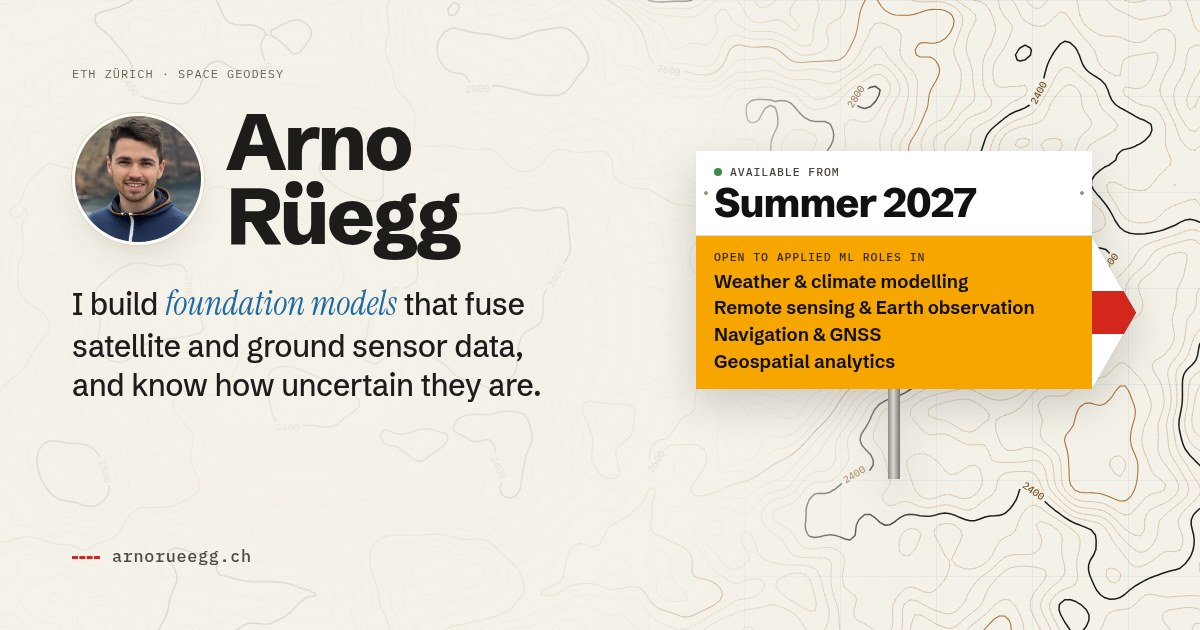
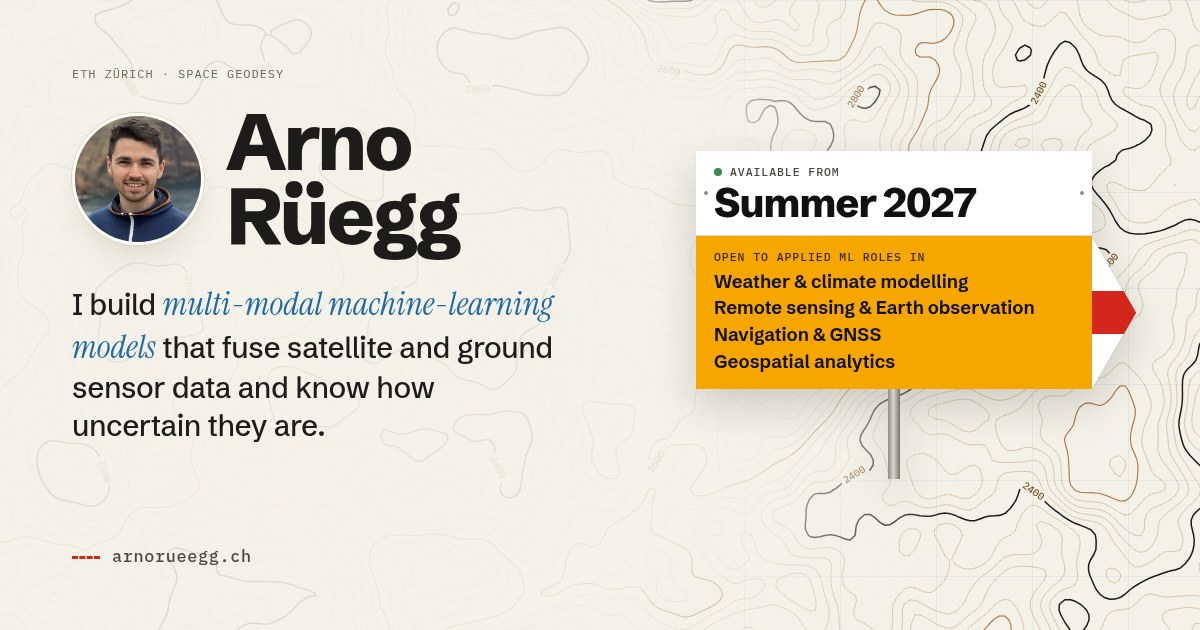
Replace "foundation models" in the header pitch
Header, page description and link-preview card now say multi-modal
machine-learning models that fuse satellite and ground sensor data.

Changed region(s): [[0.0617, 0.4524, 0.4625, 0.573], [0.0617, 0.6032, 0.4625, 0.6333], [0.0617, 0.6635, 0.2775, 0.6937]]

diff --git a/index.html b/index.html
@@ -4,7 +4,7 @@
   <meta charset="UTF-8">
   <meta name="viewport" content="width=device-width, initial-scale=1" />
   <title>Arno Rüegg</title>
-  <meta name="description" content="Arno Rüegg is a PhD researcher in space geodesy at ETH Zürich, building multi-modal foundation models and machine-learning models with uncertainty for satellite and ground sensor data: GNSS, VLBI and the ionosphere." />
+  <meta name="description" content="Arno Rüegg is a PhD researcher in space geodesy at ETH Zürich, building multi-modal machine-learning models with uncertainty that fuse satellite and ground sensor data: GNSS, VLBI and the ionosphere." />
   <link rel="canonical" href="https://www.arnorueegg.ch/" />
   <meta name="color-scheme" content="light dark" />
   <link rel="preload" href="assets/fonts/schibsted-grotesk-latin.woff2" as="font" type="font/woff2" crossorigin>
@@ -48,8 +48,8 @@
   </script>
 
   <meta property="og:site_name" content="Arno Rüegg" />
-  <meta property="og:title" content="Arno Rüegg – Foundation models for Earth and space data · PhD ETH Zürich" />
-  <meta property="og:description" content="Multi-modal foundation models and machine-learning models with uncertainty for satellite and ground sensor data: GNSS, VLBI and the ionosphere." />
+  <meta property="og:title" content="Arno Rüegg – Multi-modal machine learning for Earth and space data · PhD ETH Zürich" />
+  <meta property="og:description" content="Multi-modal machine-learning models with uncertainty that fuse satellite and ground sensor data: GNSS, VLBI and the ionosphere." />
   <meta property="og:url" content="https://www.arnorueegg.ch/" />
   <meta property="og:type" content="website" />
   <meta property="og:image" content="https://www.arnorueegg.ch/assets/og-card.jpg" />
@@ -82,8 +82,8 @@
       </div>
 
       <p class="positioning">
-        I build <em>foundation models</em> that fuse satellite and ground
-        sensor data, and know how uncertain they are.
+        I build <em>multi-modal machine-learning models</em> that fuse satellite
+        and ground sensor data and know how uncertain they are.
       </p>
       <p class="positioning-detail">
         PhD researcher in space geodesy at ETH Zürich, finishing in 2027
@@ -445,7 +445,7 @@
                 <span class="route-bar" style="--from: 2024.42; --to: 2024.5"></span>
               </li>
               <li style="--from: 2023.67">
-                <strong>Geodetic Data Analysis</strong> <span class="route-meta">Autumn semester, every year since 2023</span>
+                <strong>Geodetic Data Analysis</strong> <span class="route-meta">Autumn semester, 2023-2026</span>
                 <span class="route-bar" style="--from: 2023.67; --to: 2024.15"></span>
                 <span class="route-bar" style="--from: 2024.67; --to: 2025.15"></span>
                 <span class="route-bar" style="--from: 2025.67; --to: 2026.15"></span>
